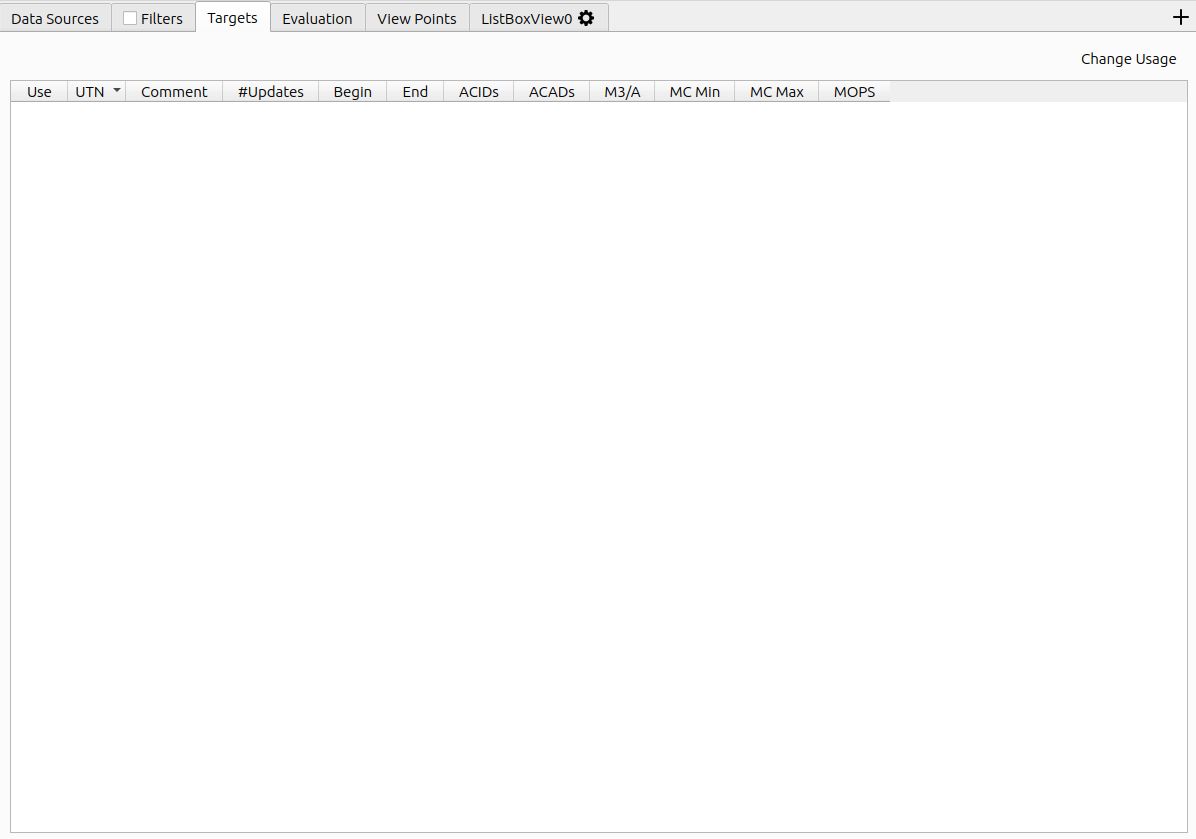
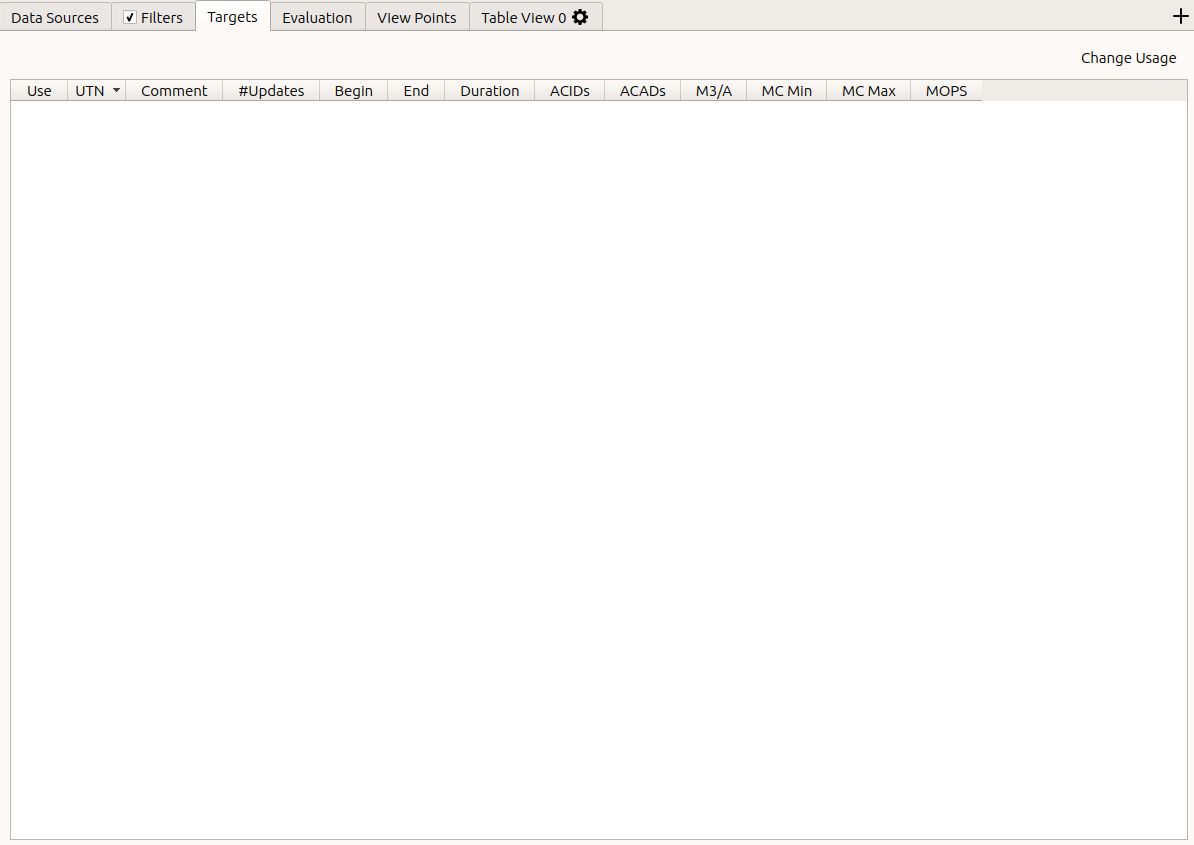
doc up

diff --git a/doc/user_manual/ui_overview/ui_targets.tex b/doc/user_manual/ui_overview/ui_targets.tex
@@ -16,30 +16,51 @@ The following columns exist:
 \item UTN: Unique Target Number
 \item Begin: First timestamp of UTN
 \item End: Last timestamp of UTN
-\item \#All: Sum number of target reports
-\item \#Ref: Number of target reports in reference data
-\item \#Tst: Number of target reports in test data
-\item Callsign: Target identification(s)
-\item TA: Target address (hexadecimal)
+\item Duration: Duration in HH:MM:SS.SSS
+\item \#Updates: Sum number of target reports
+\item ACIDs: Target identification(s)
+\item ACADs: Target addresses (hexadecimal)
 \item M3/A: Mode 3/A code(s) (octal)
 \item MC Min: Mode C code minimum [ft]
 \item MC Max: Mode C code maximum [ft]
 \end{itemize}
 \ \\
 
-After running the calculate associations task, the table can look as follows:
+After running the Calculated Unique Targets task, the table can look as follows:
 
 \begin{figure}[H]
   \hspace*{-2cm}
     \includegraphics[width=18cm,frame]{figures/ui_targets2.png}
-  \caption{Targets Tab with Calculated Associations}
+  \caption{Targets Tab with Calculated Unique Targets}
 \end{figure}
 
 When clicking a target, all data associated to the respective target is loaded. The Targets tab is useful for inspecting the association results, removing certain targets from evaluations ('Use' checkbox) and inspecting already removed ones. \\
 
-Single rows can be selected by clicking on them, which triggers a loading process showing this exact target (with all associated data) in the available Views. Please note that this does not require re-loading the evaluation data, and can be used at all times during the evaluation. \\
+Single rows can be selected by clicking on them which triggers a loading process showing this exact target(s) (with all associated data) in the available Views. Multiple targets can be selected using the shift key (range selection) or control key (add/remove single targets).
 
-Please note that the target information (incuding use flag and comment) are persisted in the database.
+\begin{figure}[H]
+  \hspace*{-2cm}
+    \includegraphics[width=18cm,frame]{figures/ui_targets3.png}
+  \caption{Targets Tab with multiple selected targets}
+\end{figure}
+
+Please note that such actions can be used at all times during the evaluation and do not require re-loading the evaluation data. \\
+
+Please also note that the target information (including use flag and comment) are persisted in the database.
+
+\subsection{Target Ordering}
+\label{sec:ui_target_ordering}
+
+When clicking on a column header, the ordering of the target table can be changed, e.g. to find:
+
+\begin{itemize}  
+\item Targets with short duration
+\item Missing certain identification attributes
+\item Minimum or maximum Mode C code
+\end{itemize}
+\ \\
+
+Such targets can then be loaded by selecting a range of targets using the shift key - e.g. all with a duration shorter than a certain value of interest.
 
 \subsection{Target Filtering}
 \label{sec:ui_target_filtering}
@@ -53,7 +74,7 @@ The 'Change Usage' button can be used for the following actions:
 \end{itemize}
 \ \\
 
-The 'Filter UTNs' dialog can be used to dynamically filter UTNs based on the configurated values:
+The 'Filter UTNs' dialog can be used to dynamically filter UTNs based on the configured values:
 
 \begin{figure}[H]
     \includegraphics[width=15cm]{figures/filter_utns.png}
